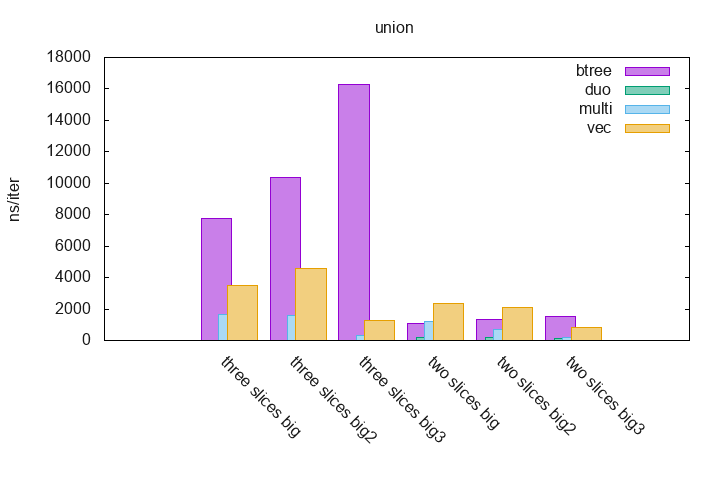
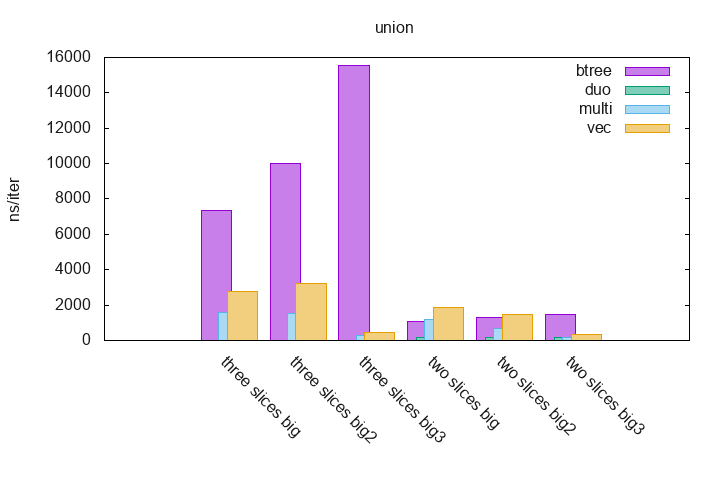
test: Update the vec benchmarks

diff --git a/src/lib.rs b/src/lib.rs
@@ -432,17 +432,25 @@ mod bench {
             extern crate test;
             use self::test::Bencher;
 
+            fn create_vec_set<T: Ord + Clone>(slices: &[&[T]]) -> Vec<T> {
+                let alloc = slices.iter().map(|v| v.len()).sum();
+                let mut set = Vec::with_capacity(alloc);
+                for slice in slices {
+                    set.extend_from_slice(slice);
+                }
+                set.sort_unstable();
+                set.dedup();
+                set
+            }
+
             #[bench]
             fn two_slices_big(bench: &mut Bencher) {
                 let a: Vec<_> = (0..100).collect();
                 let b: Vec<_> = (1..101).collect();
 
                 bench.iter(|| {
-                    let mut elements: Vec<_> = vec![&a, &b].into_iter().flatten().cloned().collect();
-                    elements.sort_unstable();
-                    elements.dedup();
-
-                    test::black_box(|| elements);
+                    let elements = create_vec_set(&[&a, &b]);
+                    test::black_box(|| elements.len());
                 });
             }
 
@@ -452,11 +460,8 @@ mod bench {
                 let b: Vec<_> = (51..151).collect();
 
                 bench.iter(|| {
-                    let mut elements: Vec<_> = vec![&a, &b].into_iter().flatten().cloned().collect();
-                    elements.sort_unstable();
-                    elements.dedup();
-
-                    test::black_box(|| elements);
+                    let elements = create_vec_set(&[&a, &b]);
+                    test::black_box(|| elements.len());
                 });
             }
 
@@ -466,11 +471,8 @@ mod bench {
                 let b: Vec<_> = (100..200).collect();
 
                 bench.iter(|| {
-                    let mut elements: Vec<_> = vec![&a, &b].into_iter().flatten().cloned().collect();
-                    elements.sort_unstable();
-                    elements.dedup();
-
-                    test::black_box(|| elements);
+                    let elements = create_vec_set(&[&a, &b]);
+                    test::black_box(|| elements.len());
                 });
             }
 
@@ -481,11 +483,8 @@ mod bench {
                 let c: Vec<_> = (2..102).collect();
 
                 bench.iter(|| {
-                    let mut elements: Vec<_> = vec![&a, &b, &c].into_iter().flatten().cloned().collect();
-                    elements.sort_unstable();
-                    elements.dedup();
-
-                    test::black_box(|| elements);
+                    let elements = create_vec_set(&[&a, &b, &c]);
+                    test::black_box(|| elements.len());
                 });
             }
 
@@ -496,11 +495,8 @@ mod bench {
                 let c: Vec<_> = (67..167).collect();
 
                 bench.iter(|| {
-                    let mut elements: Vec<_> = vec![&a, &b, &c].into_iter().flatten().cloned().collect();
-                    elements.sort_unstable();
-                    elements.dedup();
-
-                    test::black_box(|| elements);
+                    let elements = create_vec_set(&[&a, &b, &c]);
+                    test::black_box(|| elements.len());
                 });
             }
 
@@ -511,11 +507,8 @@ mod bench {
                 let c: Vec<_> = (200..300).collect();
 
                 bench.iter(|| {
-                    let mut elements: Vec<_> = vec![&a, &b, &c].into_iter().flatten().cloned().collect();
-                    elements.sort_unstable();
-                    elements.dedup();
-
-                    test::black_box(|| elements);
+                    let elements = create_vec_set(&[&a, &b, &c]);
+                    test::black_box(|| elements.len());
                 });
             }
         }
